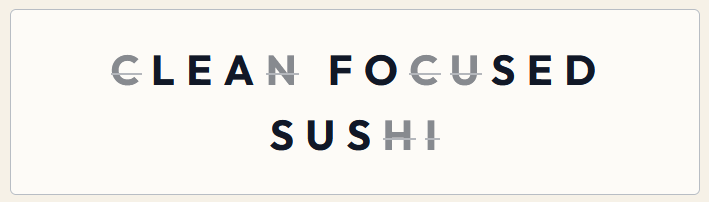
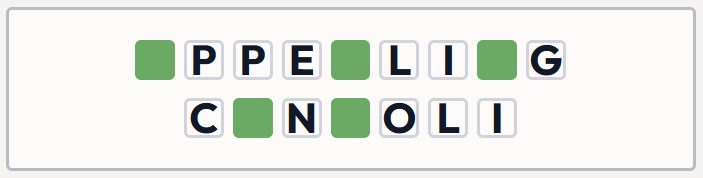
Text updates

Changed region(s): [[0.1494, 0.2247, 0.8364, 0.4494], [0.0, 0.0281, 1.0, 0.9831], [0.239, 0.5337, 0.7468, 0.7865]]

diff --git a/game.js b/game.js
@@ -935,20 +935,24 @@ function startCountdownTimer() {
 function getHelpContent() {
     return `
         <div class="help-content">
-            <p>Add to your recipe by typing and submitting any food you want to use (i.e. <strong>ZUCCHINI</strong>).</p>
-            <p>The letters in your ingredient will be matched against the letters in the challenge dish, removing any that match.</p>
-            <p class="help-label">Example:</p>
-            <p>Adding the ingredient <strong>ZUCCHINI</strong> to...</p>
+            <p>Complete the puzzle by entering ingredients that share letters with the dish of the day.</p>
+            <p>Each time you submit a valid ingredient, its letters will match against the dish one at a time, left to right.</p>
+            <p class="help-label">A valid ingredient is...</p>
+            <ul>
+                <li>Food</li>
+                <li>12 letters or less</li>
+            </ul>
+            <p class="help-label">Example</p>
+            <p>Adding the ingredient <strong>BANANA</strong> to this:</p>
             <div class="help-example">
-                <img src="assets/clean-before.png" alt="Challenge dish before: CLEAN FOCUSED SUSHI" class="help-image">
+                <img src="assets/clean-before.png" alt="Challenge dish before: APPEALING CANNOLI" class="help-image">
             </div>
-            <p>Would produce...</p>
+            <p>Would produce this:</p>
             <div class="help-example">
-                <img src="assets/clean-after.png" alt="Challenge dish after: some letters matched and removed, Z and I marked as Food Waste" class="help-image">
+                <img src="assets/clean-after.png" alt="Challenge dish after: BANANA letters matched" class="help-image">
             </div>
-            <p>With the matching <strong>U, C, C, H, N,</strong> and <strong>I</strong> removing those letters from the dish, and the unmatched <strong>Z</strong> and other <strong>I</strong> becoming food waste.</p>
-            <p>Food waste won't stop you from completing the challenge, but it's not a good look for an aspiring chef!</p>
-            <p>Successfully complete the challenge dish by matching all of its letters in five ingredients or less.</p>
+            <p>With the <strong>A</strong>, <strong>N</strong>, <strong>A</strong>, <strong>N</strong>, and <strong>A</strong> matching and the <strong>B</strong> discarded.</p>
+            <p>A dish is prepared successfully if all of its letters are matched using five ingredients or less.</p>
         </div>
     `;
 }

diff --git a/styles.css b/styles.css
@@ -810,6 +810,11 @@ footer {
     margin-top: 16px;
 }
 
+.help-content ul {
+    margin: 8px 0 12px 1.2em;
+    padding-left: 0;
+}
+
 .help-example {
     text-align: center;
     margin: 12px 0;
